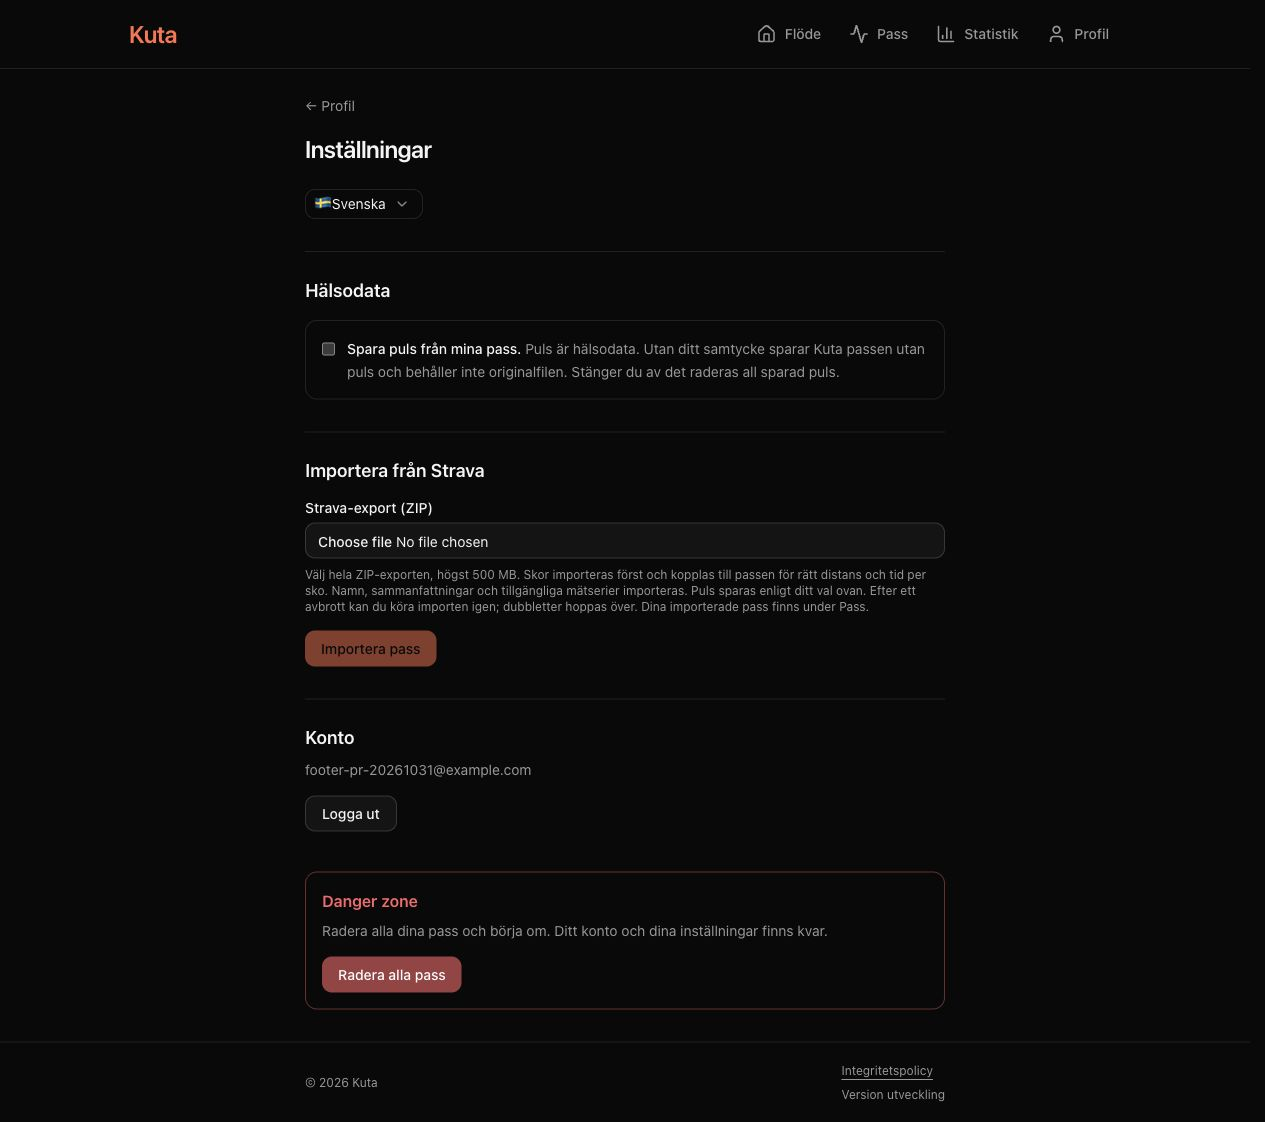
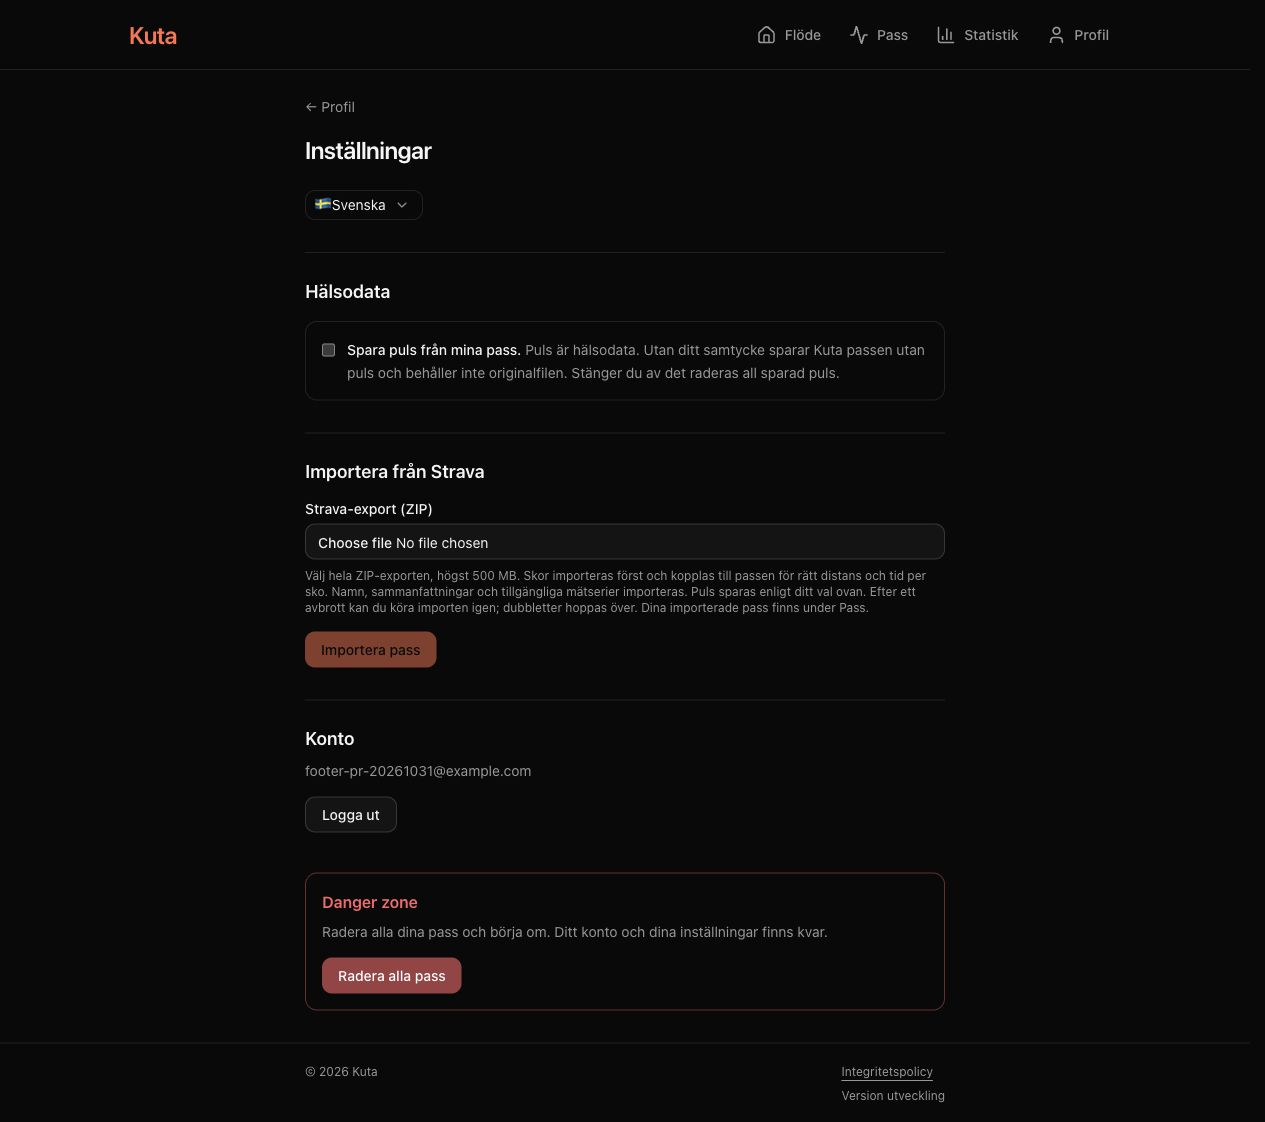
Top-align app footer columns

diff --git a/web/src/components/layout.tsx b/web/src/components/layout.tsx
@@ -91,7 +91,7 @@ export function Layout() {
       </main>
 
       <footer className="border-t pb-[calc(4rem+env(safe-area-inset-bottom))] md:pb-0">
-        <div className="mx-auto flex max-w-2xl flex-wrap items-center justify-between gap-2 px-4 py-5 text-xs text-muted-foreground">
+        <div className="mx-auto flex max-w-2xl flex-wrap items-start justify-between gap-2 px-4 py-5 text-xs text-muted-foreground">
           <p>© {copyrightYear} Kuta</p>
           <div className="flex flex-col items-start gap-2">
             <a
